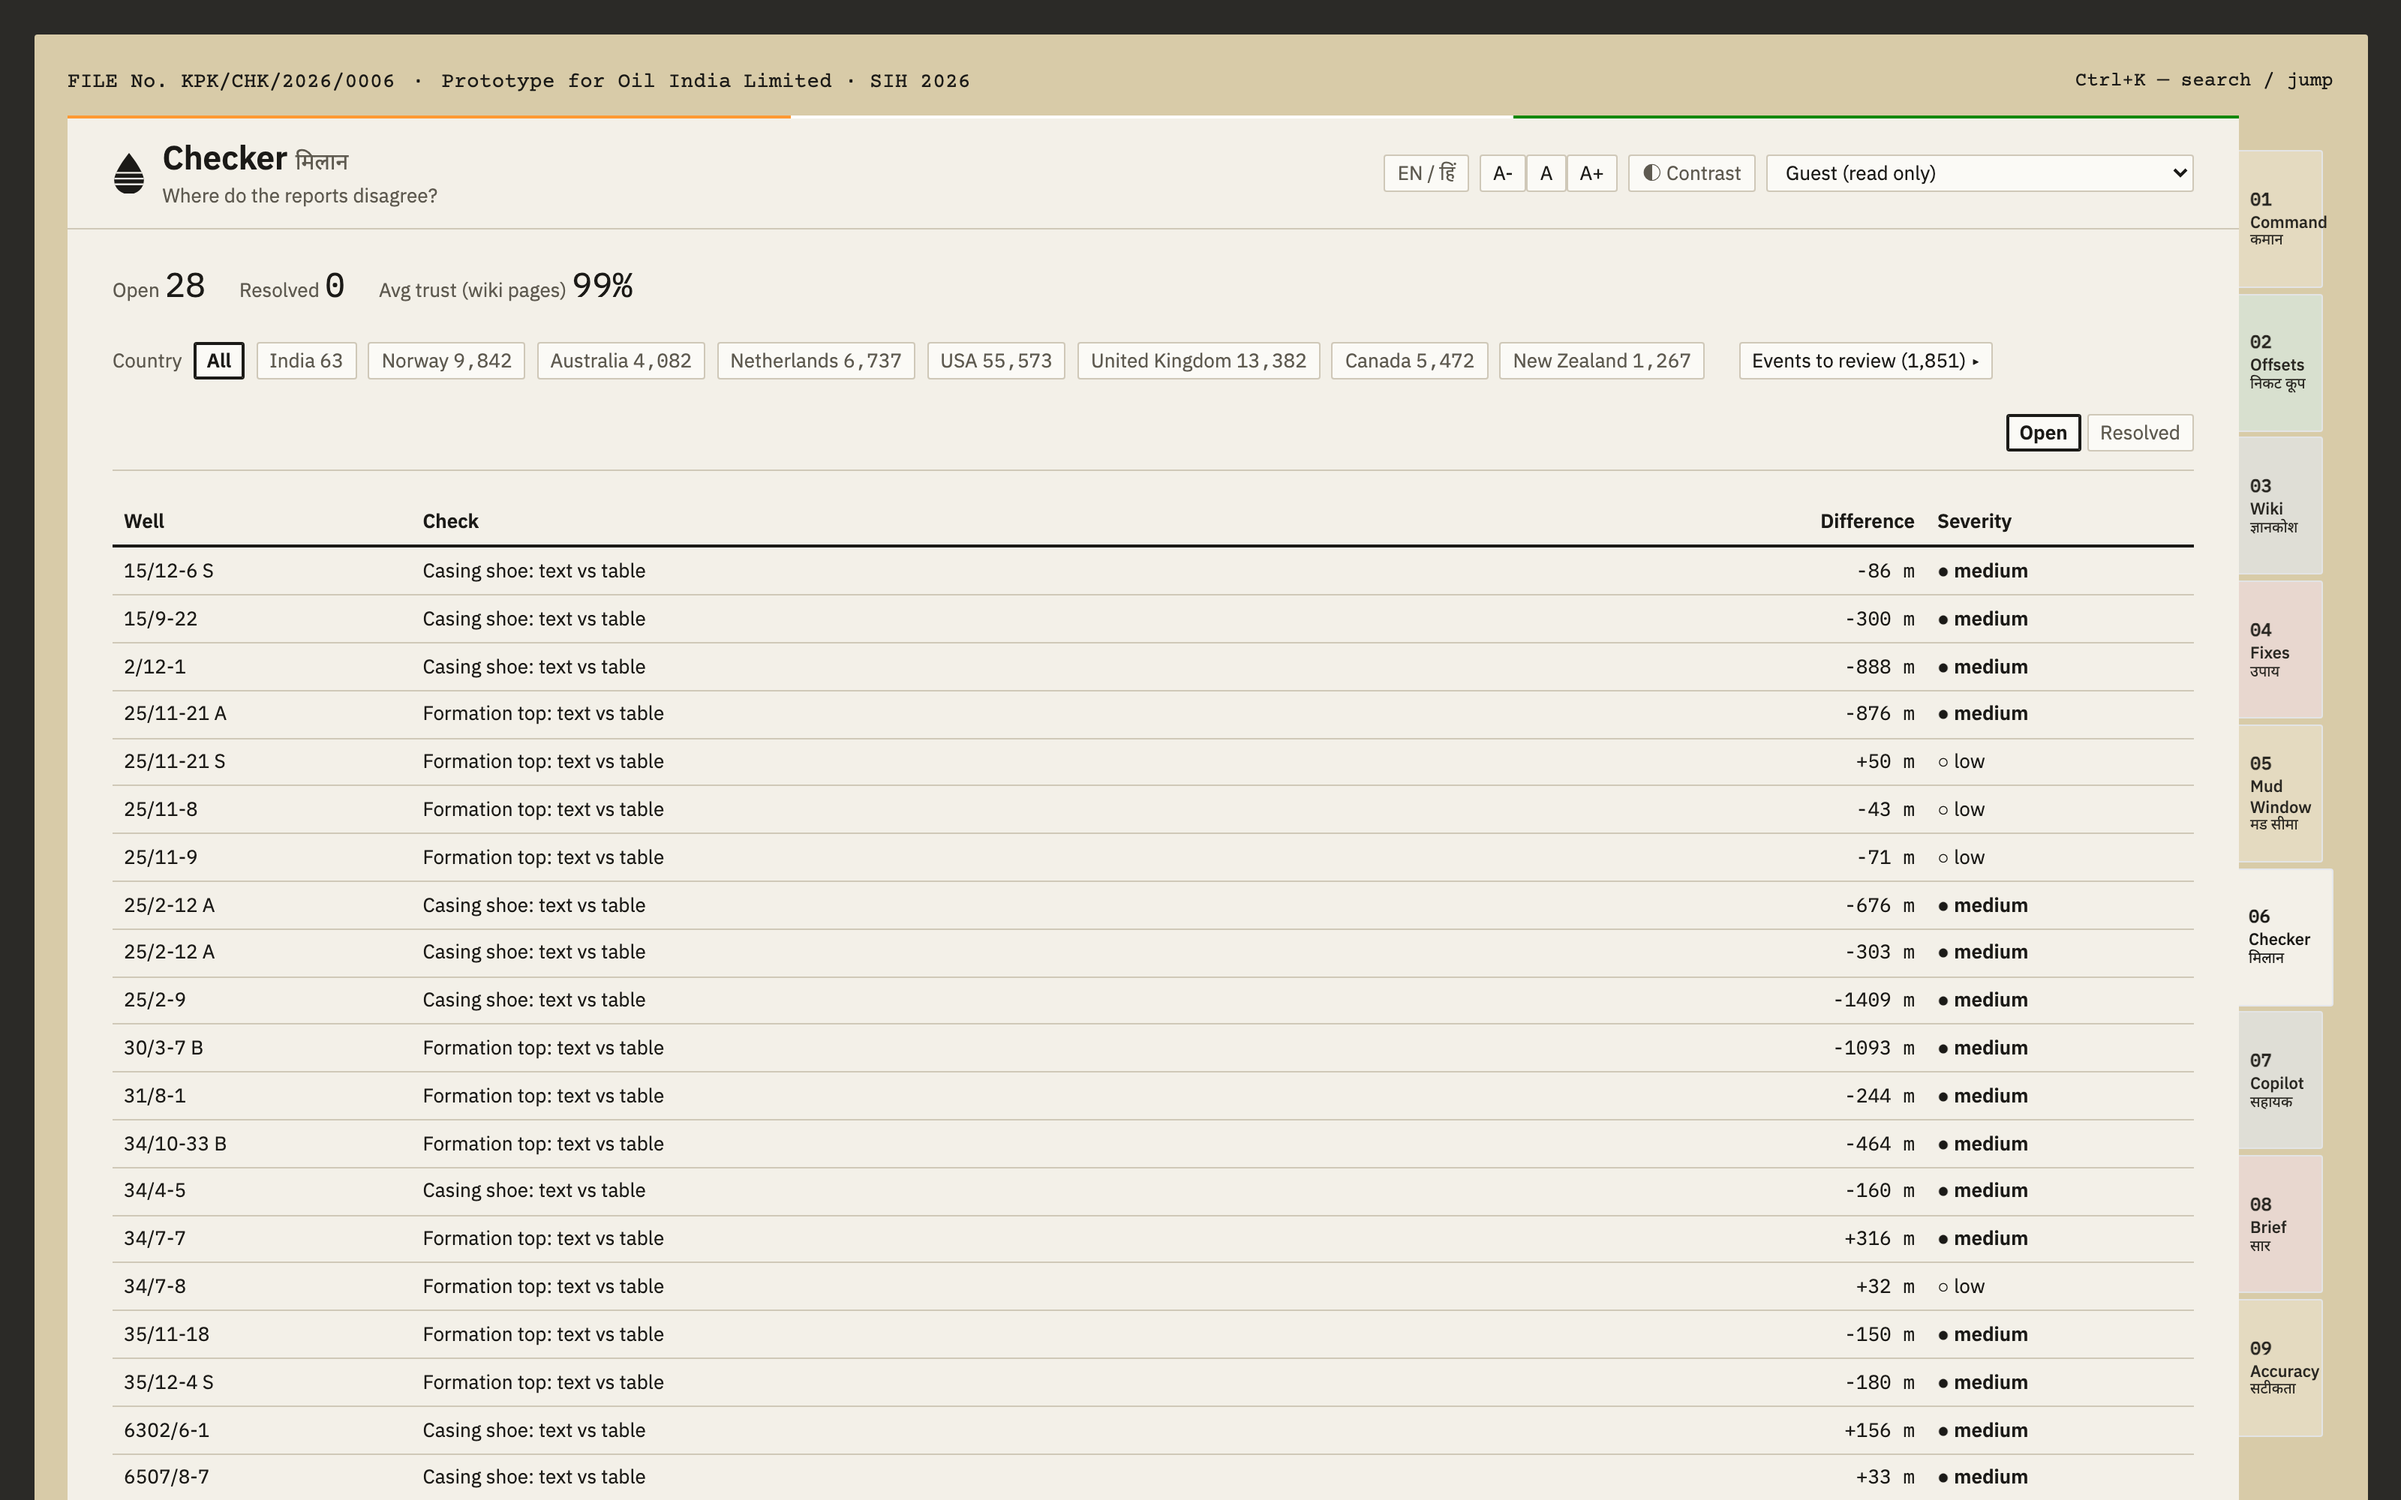
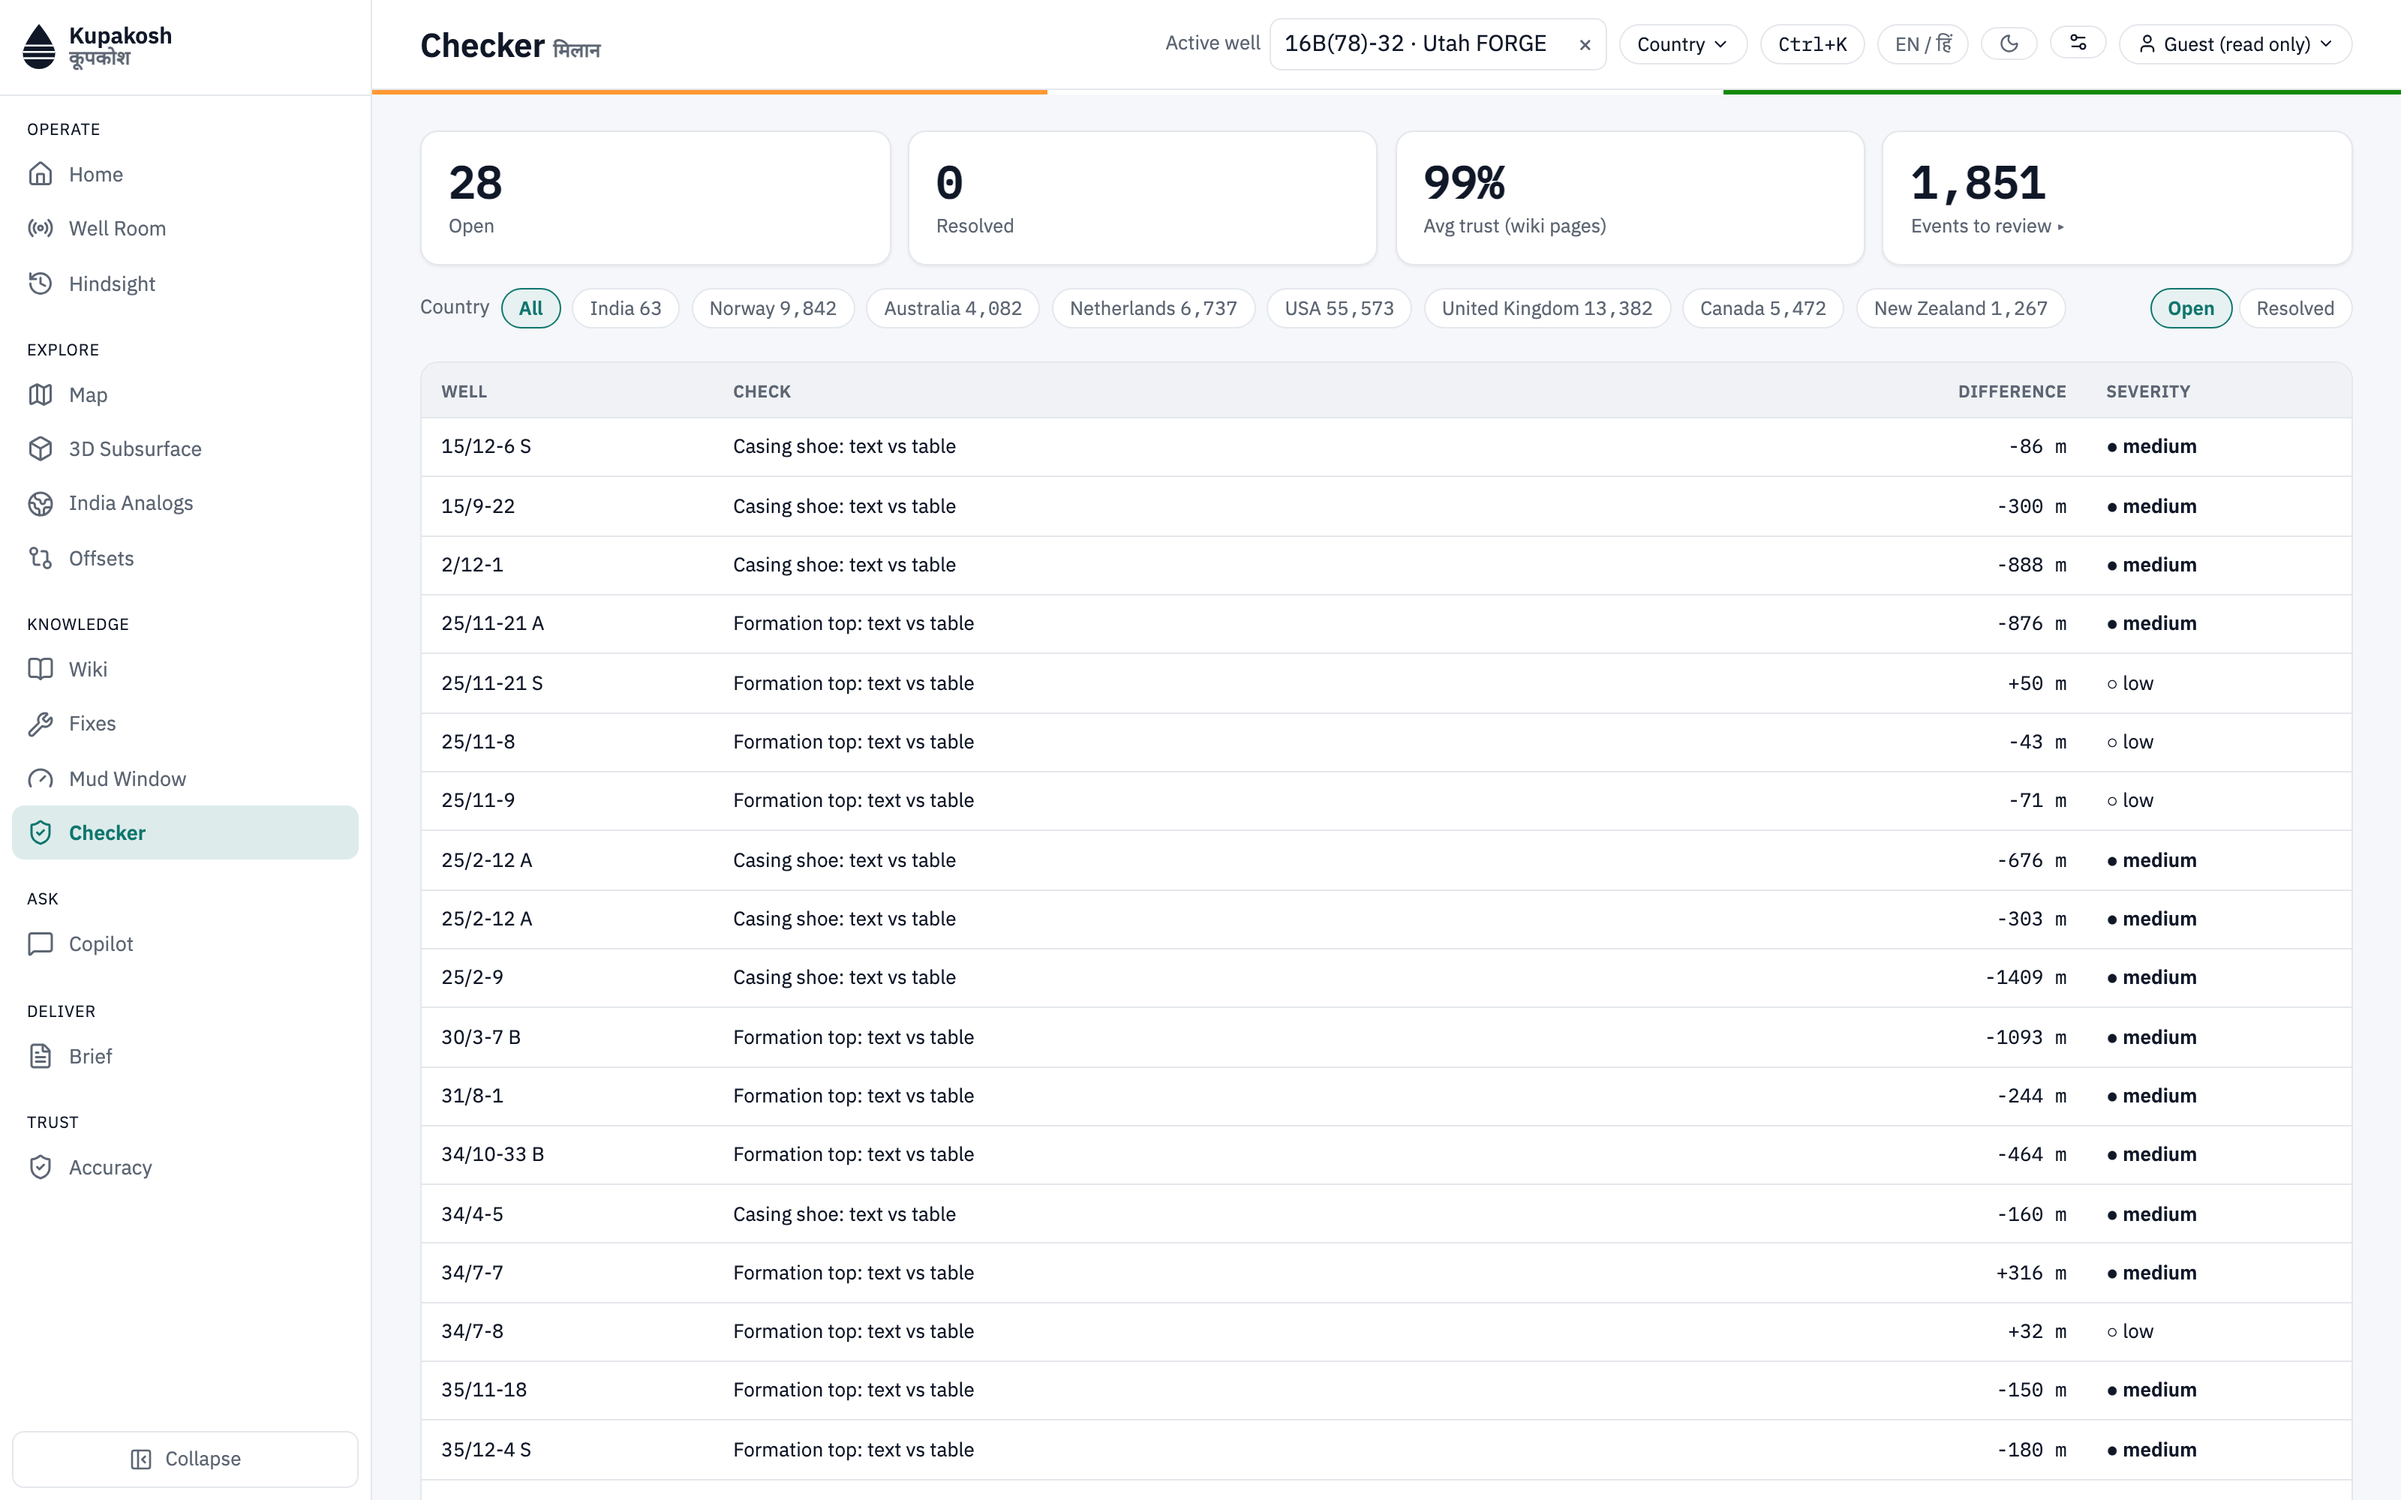
v2 done: docs (plan status, progress, limitations), deck guide with Hindsight / India Analogs / 3D / map USPs and prompts, 15 new screenshots; analogs shows evidence status and <1%

diff --git a/frontend/src/components/v2/analogs/AnalogEvidence.tsx b/frontend/src/components/v2/analogs/AnalogEvidence.tsx
@@ -3,7 +3,7 @@ import type { Lang } from "@/lib/i18n";
 import { Register, type Col } from "@/components/kk/Register";
 import { SourceFootnote } from "@/components/kk/SourceFootnote";
 import { Badge } from "@/components/v2/ui";
-import { hazardText } from "@/lib/format";
+import { hazardText, pct } from "@/lib/format";
 import { RangeBar } from "./RangeBar";
 import { tr } from "./trLocal";
 
@@ -24,8 +24,8 @@ export function AnalogEvidence({ result, lang }: { result: AnalogResult; lang: L
 
   const cols: Col<HazardRow>[] = [
     { key: "h", head: t("Hazard", "खतरा"), cell: (r) => hazardText(r.hazard, lang) },
-    { key: "s", head: t("Status", "स्थिति"), cell: (r) => (r.status === "ok" ? "" : <Badge kind="caution">{t("insufficient evidence", "अपर्याप्त साक्ष्य")}</Badge>) },
-    { key: "m", head: t("Mean", "औसत"), num: true, cell: (r) => (r.status === "ok" ? `${Math.round(r.mean * 100)}%` : "—") },
+    { key: "s", head: t("Status", "स्थिति"), cell: (r) => (r.status === "ok" ? <span className="label">{t("enough evidence", "पर्याप्त साक्ष्य")}</span> : <Badge kind="caution">{t("insufficient evidence", "अपर्याप्त साक्ष्य")}</Badge>) },
+    { key: "m", head: t("Mean", "औसत"), num: true, cell: (r) => (r.status === "ok" ? pct(r.mean) : "—") },
     { key: "r", head: `${Math.round(ciLevel * 100)}% range`, cell: (r) => (r.status === "ok" ? <RangeBar mean={r.mean} ci={r.ci} /> : <span className="label">—</span>) },
     { key: "n", head: t("n wells", "n कूप"), num: true, cell: (r) => r.n_wells },
     { key: "e", head: t("with event", "घटना सहित"), num: true, cell: (r) => r.n_with_event },

diff --git a/docs/PPT_KUPAKOSH.md b/docs/PPT_KUPAKOSH.md
@@ -14,6 +14,49 @@ This follows the NiyamKosh deck: same 6 slides, same layout and same template. I
 
 ---
 
+## v2 update (27 Sept 2026): use these where they differ from Part A
+
+**New headline USPs (put them on slide 2, "The idea", and the comparison table):**
+1. **Hindsight Test: it proves itself on real history.**
+   - Each real well is replayed *blind*: its own reports are hidden and alerts come from other wells only. Then the page reveals what really happened.
+   - When Kupakosh alerted, a problem was recorded in that layer **11 of 14 times (79 %)**, versus **1 %** where it stayed silent: **81× lift**.
+   - A fair baseline that alerts on the field average alone gets 74×.
+   - Honest line: it forewarned **15 of 438** problems (3.4 %) and stays silent when the evidence is thin.
+   - No public PS 26121 project shows blind, measured proof (`docs/COMPETITORS.md`).
+2. **India Analogs.**
+   - For an Indian basin, the rock types are taken from its NDR summary (cited). Kupakosh then finds the same rock at the same depth in **thousands of public wells worldwide** and shows what went wrong and what fixed it.
+   - It is labelled "analogue evidence, not Indian wells", and it is usable on day one, before Oil India loads its own data.
+3. **3D subsurface and world map.**
+   - All **97,078** located wells on the map.
+   - Offset wells in 3D with formation tops and problem markers; click a marker to open its source.
+4. **"Why this number?"** on every probability: the evidence wells, the field average, n_eff and the range. This answers the explainability that competitors show with SHAP.
+
+**Comparison table: add these rows**
+| Feature | eRTMAC | PDF search / RAG | Manual review | KUPAKOSH |
+|---|---|---|---|---|
+| Blind proof on real history (Hindsight) | ✗ | ✗ | ✗ | ✓ |
+| Indian basins answered from global analogues | ✗ | ✗ | ✗ | ✓ |
+| 3D subsurface + world map of wells | ✗ | ✗ | ✗ | ✓ |
+| "Why this number?" on every risk | ✗ | ✗ | ✗ | ✓ |
+
+**Screenshots for v2** (`docs/screenshots/`):
+- 00-home.png
+- 13-hindsight.png: slide 2, "One alert" alternative, or slide 3, "Technical validation"
+- 10-map.png
+- 11-subsurface.png
+- 12-analogs.png
+- 01-command-replay.png
+
+**Image prompt: Hindsight panel (add to Part B)**
+```
+[Style block]
+Title in bold navy: "HINDSIGHT TEST". Subtitle in grey: "Each real well replayed blind — its own reports hidden".
+Left: a tall vertical depth strip (0 m at the top, down to 3,000 m) with two lanes labelled "ALERTS (blind)" and "WHAT REALLY HAPPENED".
+The alerts lane has red dots with small labels. The real lane has markers joined to the alerts by dashed brackets labelled "lead".
+Right: two stat cards. The first: big "11 / 14" and "alerts matched a recorded problem (79%)", then "81× lift vs silent layers · fair baseline 74×".
+The second, with an amber border: big "15 / 438" and "problems forewarned — it stays silent when evidence is thin".
+```
+
 ## Part A: slide content
 
 ### Slide 1: Title (same template as NiyamKosh slide 1)

diff --git a/docs/PLAN_V2.md b/docs/PLAN_V2.md
@@ -67,11 +67,23 @@ The user asked for a much more user-friendly UI, 3D, proper maps, and USPs that 
 ## Phases
 | Phase | What | Owner | State |
 |---|---|---|---|
-| V1 | Hindsight engine + API + tests + eval metric | agent A | |
-| V2 | Global Analog engine + API + tests | agent B | |
-| V3 | 3D subsurface API + component + page | agent C | |
-| V4 | Well map API (compact geo) + component + page | agent D | |
-| V5 | App shell v2 (sidebar, top bar, tokens, Home "Start here" with a guided tour); Command moves to /command | agent E | |
-| V6 | Hindsight and India Analogs pages; WhyPanel | agents (round 2) | |
-| V7 | Restyle the 9 existing screens to v2 | agents (round 2) | |
-| V8 | Integration, router registration, tests (backend + Playwright), screenshots, deck and docs update, commit | main | |
+| V1 | Hindsight engine + API + tests + eval metric | agent A | done |
+| V2 | Global Analog engine + API + tests | agent B | done |
+| V3 | 3D subsurface API + component + page | agent C | done |
+| V4 | Well map API (compact geo) + component + page | agent D | done |
+| V5 | App shell v2 (sidebar, top bar, tokens, Home "Start here" with a guided tour); Command moves to /command | agent E | done |
+| V6 | Hindsight and India Analogs pages; WhyPanel | agents (round 2) | done |
+| V7 | Restyle the 9 existing screens to v2 | agents (round 2) | done |
+| V8 | Integration, router registration, tests (backend + Playwright), screenshots, deck and docs update, commit | main | done |
+
+## Result (27 Sept 2026)
+All V phases are done.
+- **Backend:** 81 tests.
+- **Frontend:** 18/18 Playwright checks on 12 screens (no console errors, ≤ 3 zones, WCAG AA contrast, Hindi toggle), plus vitest 5/5.
+
+**Hindsight (absolute alert mode, all 299 testable wells, 30,920 formation×hazard cells):**
+- Blind alerts were right 11/14 times (79 %). Where Kupakosh stayed silent, only 1 % of layers had a recorded problem: 81× lift (approx. 95 % interval 49–107×).
+- A fair baseline that alerts on the field base rate alone gets 74×.
+- Only 15/438 problems (3.4 %) were forewarned, with a median lead of 786 m.
+- The stricter "elevated" mode flags nothing on this data yet.
+- All of this is shown on the Hindsight page and the Accuracy page.

diff --git a/docs/LIMITATIONS.md b/docs/LIMITATIONS.md
@@ -24,3 +24,8 @@
     - "Send for review" on the brief;
     - Dutch-language text rules (English patterns only);
     - Tesseract refuses a few extremely long log-strip pages, so their own text is kept.
+15. **Hindsight has thin coverage and a small FORGE-driven lift.**
+    - It forewarns only 15 of 438 real problems (3.4 %). Its 81× lift comes from just 14 alerts, mostly in the small FORGE set, and a field-average baseline already reaches 74×.
+    - The stricter "elevated" rule flags nothing yet. Testable wells are Norway and USA only.
+16. **India Analogs** use lithology and depth analogues from outside India. They are not Indian well records, and the fixes shown are scoped per well, not per interval.
+17. **3D view assumptions.** Wells without a survey are drawn vertical (labelled "assumed vertical"). Positions are projected locally, which is valid within about 50 km.

diff --git a/docs/PROGRESS.md b/docs/PROGRESS.md
@@ -1,5 +1,15 @@
 # Progress: Kupakosh prototype
 
+> **v2 (27 Sept 2026, user-requested redesign).** New features:
+> - a sidebar UI, light/dark theme and a guided tour;
+> - a world map of 97k wells with 3D terrain;
+> - a 3D subsurface room;
+> - the **Hindsight test** (blind replay proof);
+> - **India Analogs**;
+> - a "Why this number?" panel.
+>
+> Tests: 81 backend, 18/18 Playwright. See `docs/PLAN_V2.md`. The visual rules of SPEC.md §11 were superseded at the user's request; the honesty rules still apply.
+
 Status as of **27 Sept 2026** (end-to-end build). Phases are those of SPEC.md §15, plus the extension plan in `docs/PLAN.md`.
 
 | Phase | Status | Notes |
